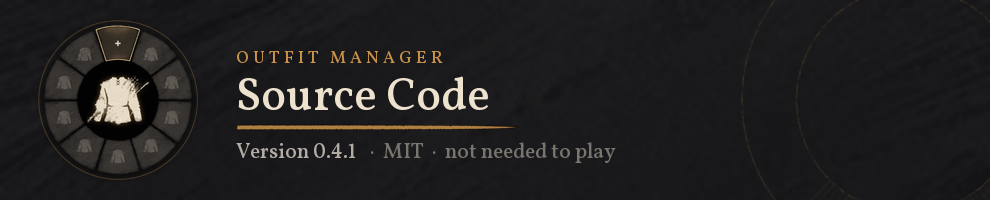
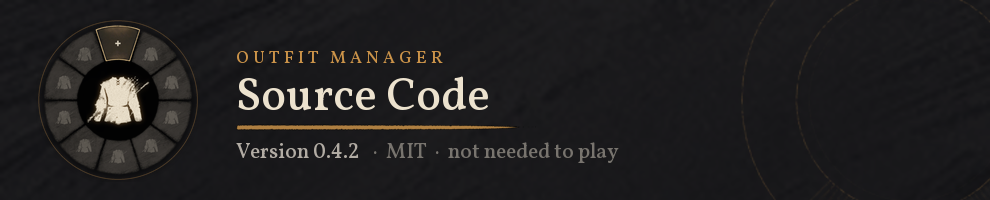
Outfit Manager 0.4.2: the Outfit Arc's mouse wheel counts each notch once
Source synced from the 0.4.2 source zip, CHANGELOG entry, file cards for 0.4.2.

Changed region(s): [[0.3333, 0.72, 0.6364, 0.81]]

diff --git a/src/outfit_manager.cpp b/src/outfit_manager.cpp
@@ -5629,6 +5629,10 @@ U32 g_name_caret = 0;       // its caret
 
 extern std::atomic<bool> g_peek_live;
 extern std::atomic<int> g_peek_wheel;
+// The wheel hook is in (the arc open): it alone counts the notches. The window and raw input routes then only keep
+// the wheel from the game (2026-11-06: all three counted, 6 steps per notch, and with 3 outfits the arc went round
+// twice and seemed not to move).
+std::atomic<bool> g_wheel_hooked{false};
 extern std::atomic<U64> g_peek_hud_at;
 
 // Is (vk) with the modifiers held now one of the current outfits' hotkeys (in play)?
@@ -5658,7 +5662,7 @@ LRESULT CALLBACK name_wndproc(HWND w, UINT m, WPARAM wp, LPARAM lp)
     // The Outfit Arc: while it is open the wheel is its (not the camera's); its key's messages are its own in play.
     if (m == WM_MOUSEWHEEL) {
         if (g_peek_live) {
-            g_peek_wheel += GET_WHEEL_DELTA_WPARAM(wp);
+            if (!g_wheel_hooked) g_peek_wheel += GET_WHEEL_DELTA_WPARAM(wp); // (else the hook counts it)
             return 0;
         }
     }
@@ -8642,6 +8646,7 @@ struct Peek {
     std::string icon_set[5];         // last icon set per position
 } g_peek;
 bool g_peek_down = false;             // the arc key on the last frame
+extern std::atomic<U32> g_wheel_notches;
 void wheel_hook(bool on);             // (the arc's wheel hook: below)
 bool g_peek_by_pad = false;           // the open arc came from the pad (L1 / LB held: it closes when that lets go)
 std::atomic<bool> g_peek_pad_open{false}; // (the same, for the pad filters on other threads)
@@ -8815,8 +8820,9 @@ void peek_close(bool choose)
     p.closing_at = GetTickCount64();
     p.open = false;
     bool load = choose && e >= 0 && e != p.worn && static_cast<size_t>(e) < g_outfits.size();
-    LOG("Outfit Arc: closed on %s%s", e < 0 ? "the current outfit" : ("outfit " + std::to_string(e + 1)).c_str(),
-        !choose ? "" : load ? "; putting it on" : " (nothing to change)");
+    LOG("Outfit Arc: closed on %s%s (%s, wheel notches %u)", e < 0 ? "the current outfit" : ("outfit " + std::to_string(e + 1)).c_str(),
+        !choose ? "" : load ? "; putting it on" : " (nothing to change)", g_peek_by_pad ? "pad" : "key",
+        g_wheel_notches.load());
     // as a click on it in the wheel: where each piece is, the questions (pieces on other characters, copies), the load
     if (load) start_loading(p.self, static_cast<U32>(e));
 }
@@ -8873,6 +8879,7 @@ void peek_hotkeys(U64 self, bool free);
 void peek_sync_live(bool open)
 {
     if (open == g_peek_live.load()) return;
+    if (open) g_wheel_notches = 0;
     g_peek_live = open;
     wheel_hook(open);
 }
@@ -8985,7 +8992,7 @@ UINT WINAPI raw_input_hook(HRAWINPUT h, UINT cmd, LPVOID data, PUINT size, UINT 
         if (in->header.dwType == RIM_TYPEMOUSE) {
             RAWMOUSE& m = in->data.mouse;
             if (g_peek_live && (m.usButtonFlags & RI_MOUSE_WHEEL)) {
-                g_peek_wheel += static_cast<SHORT>(m.usButtonData);
+                // (not counted here: the game reads each raw event several times; the hook / window route counts)
                 m.usButtonFlags &= ~RI_MOUSE_WHEEL;
                 m.usButtonData = 0;
             }
@@ -9005,6 +9012,7 @@ UINT WINAPI raw_input_hook(HRAWINPUT h, UINT cmd, LPVOID data, PUINT size, UINT 
 // pad, the game in its pad mode passed no wheel to its window, so the window / raw input filters saw none and the arc
 // didn't move). Installed when the arc opens, removed when it closes (its own thread: such a hook needs a message loop).
 std::atomic<DWORD> g_wheel_thread_id{0};
+std::atomic<U32> g_wheel_notches{0}; // notches the hook took this opening (on the close's log line)
 HANDLE g_wheel_open_event = nullptr;
 
 LRESULT CALLBACK wheel_ll_proc(int code, WPARAM wp, LPARAM lp)
@@ -9012,6 +9020,7 @@ LRESULT CALLBACK wheel_ll_proc(int code, WPARAM wp, LPARAM lp)
     if (code == HC_ACTION && wp == WM_MOUSEWHEEL && g_peek_live && game_focused()) {
         const MSLLHOOKSTRUCT* m = reinterpret_cast<const MSLLHOOKSTRUCT*>(lp);
         g_peek_wheel += static_cast<SHORT>(HIWORD(m->mouseData));
+        ++g_wheel_notches;
         return 1; // (kept from the game: no window message, no raw input)
     }
     return CallNextHookEx(nullptr, code, wp, lp);
@@ -9025,10 +9034,15 @@ DWORD WINAPI wheel_thread(LPVOID)
     for (;;) {
         WaitForSingleObject(g_wheel_open_event, INFINITE);
         HHOOK h = SetWindowsHookExW(WH_MOUSE_LL, &wheel_ll_proc, g_self, 0);
-        if (!h) LOG("Outfit Arc: wheel hook failed (%lu)", GetLastError());
+        if (!h) LOG("Outfit Arc: wheel hook failed (%lu); the window's wheel messages count instead", GetLastError());
+        g_wheel_hooked = h != nullptr;
+        // (a close's message can be left over from an opening the hook never saw: it only counts with the arc closed,
+        // 2026-11-06: a stale one ended the next opening's hook at once and the wheel did nothing for it)
         while (g_peek_live && GetMessageW(&msg, nullptr, 0, 0) > 0)
-            if (msg.message == WM_APP) break; // (the arc closed)
+            if (msg.message == WM_APP && !g_peek_live) break; // (the arc closed)
         if (h) UnhookWindowsHookEx(h);
+        g_wheel_hooked = false;
+        while (PeekMessageW(&msg, nullptr, WM_APP, WM_APP, PM_REMOVE)) {} // (none left for the next opening)
     }
 }
 

diff --git a/CHANGELOG.md b/CHANGELOG.md
@@ -2,6 +2,13 @@
 
 Outfit Manager for Crimson Desert. Downloads: [Nexus Mods](https://www.nexusmods.com/crimsondesert/mods/4029) or this repository's [releases](https://github.com/Yorivel/outfit-manager-nexus/releases).
 
+## 0.4.2 (2026-11-06)
+
+- Fix: scrolling the Outfit Arc with the mouse wheel did nothing in 0.4.1 (the selection flickered and landed back on the worn outfit). Each wheel notch was counted several times (6 steps per notch); with 3 outfits that goes round the arc exactly twice. One notch is one outfit again. Controllers were not affected.
+- Fix: an opening of the Outfit Arc could miss the mouse wheel entirely when a close from an earlier opening was still pending.
+- Technical: the wheel is now counted only by the low-level mouse hook that exists while the arc is open; the game window's messages and its raw input still keep the wheel from the camera but no longer count it (they count only if the hook could not be installed). A leftover close message no longer ends the next opening's hook. The close's log line now says how the arc was opened (key / pad) and how many wheel notches it took.
+- Tested on: Crimson Desert 1.0.0.3549 (Steam build 26448710) with DMM 4.7.3.
+
 ## 0.4.1 (2026-11-06)
 
 - Fix: hidden pieces showed again on the character you switch away from (switching Kliff, Damiane and Oongka through the gear wheel). The wheel compared the new character's gear with the old character's outfits, took it for a new set and dropped that character's visibility settings. Thanks for the report!

diff --git a/BUILDING.md b/BUILDING.md
@@ -1,4 +1,4 @@
-# Outfit Manager 0.4.1: source
+# Outfit Manager 0.4.2: source
 
 Source of [Outfit Manager](https://www.nexusmods.com/crimsondesert/mods/4029) for Crimson Desert, by Strahlimeier.
 MIT licence (see `LICENSE.txt`); MinHook keeps its own BSD licence (`THIRD-PARTY-MinHook-LICENSE.txt`).
